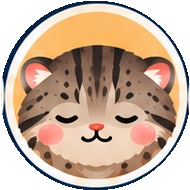
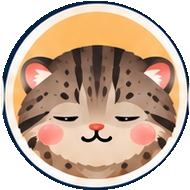
Make all sleepy cats visibly drowsy while preserving other artwork

Changed region(s): [[0.2632, 0.6053, 0.4211, 0.6579], [0.6053, 0.6053, 0.7368, 0.6579]]

diff --git a/cat-faces.js b/cat-faces.js
@@ -35,7 +35,7 @@ globalThis.CatFaces = (() => {
     return `<circle cx="50" cy="50" r="47" fill="#ffba70" stroke="#fff5e5" stroke-width="3"/><path d="M8 43Q20 2 64 8" fill="none" stroke="#ffd294" stroke-width="8" opacity=".55"/><path d="M17 41 19 17Q21 13 39 30M61 30Q79 13 81 17l2 24" fill="${fur}" stroke="${fur}" stroke-width="4" stroke-linejoin="round"/><path d="m22 32 0-12 11 10m34 0 11-10 0 12" fill="#ff9a94"/><ellipse cx="50" cy="59" rx="39" ry="32" fill="${fur}"/>${patches}${stripes}<ellipse cx="27" cy="70" rx="7" ry="4" fill="#ff9295"/><ellipse cx="73" cy="70" rx="7" ry="4" fill="#ff9295"/><g fill="${coat === 'black' || coat === 'gray' ? fur : '#fff8ee'}"><ellipse cx="30" cy="92" rx="7" ry="4"/><ellipse cx="70" cy="92" rx="7" ry="4"/></g><path d="m28 93 1 2m3-2 1 2m35-2 1 2m3-2 1 2" stroke="${stripe}" stroke-width="1" stroke-linecap="round"/>`;
   }
   const label = value => options.find(option => option.id === normalize(value)).label;
-  const domesticVersions = {"black-faces-calm.png":"b9b70d19d04572ba","black-faces-happy.png":"6544502df01c0127","black-faces-restless.png":"da362098528cf99b","black-faces-sleepy.png":"b1659bc16931bea4","black-faces-surprised.png":"fb8e8401de2f5358","black-faces-yawn.png":"c24cfaee03299aef","brown-faces-calm.png":"46f285a316a3b7f2","brown-faces-happy.png":"72aef1cf10cc3b11","brown-faces-restless.png":"83c9bafdac4084d2","brown-faces-sleepy.png":"8eebe87978ac4554","brown-faces-surprised.png":"b61871d58a4648c3","brown-faces-yawn.png":"a62e9f3bb2f8652c","calico-faces-calm.png":"9c7ff26ea678618b","calico-faces-happy.png":"b4232f5ec805cdb3","calico-faces-restless.png":"51bbd9868f054c3c","calico-faces-sleepy.png":"84f707ddc62ba72c","calico-faces-surprised.png":"edf0edd440492e29","calico-faces-yawn.png":"a15c91b67fbb3950","gray-faces-calm.png":"97dce9010a721f8e","gray-faces-happy.png":"94fdeab84212f10a","gray-faces-restless.png":"422a62ab51a188e2","gray-faces-sleepy.png":"3b3e758a98170077","gray-faces-surprised.png":"9ece4db1177bdc1f","gray-faces-yawn.png":"d295e2d248a84fcd","orange-faces-calm.png":"1ae7bd9b7e7b869c","orange-faces-happy.png":"e7e6c62a0ecaf0f0","orange-faces-restless.png":"aa5123295548ac84","orange-faces-sleepy.png":"6348a751288daab4","orange-faces-surprised.png":"d165f5e45ff38979","orange-faces-yawn.png":"5a4ea2ba3d8a8704","silver-faces-calm.png":"8c26689833c114db","silver-faces-happy.png":"c45b933e1d8c3dbc","silver-faces-restless.png":"311de63bc00478af","silver-faces-sleepy.png":"df4d160b2ccb9560","silver-faces-surprised.png":"74c5e1613cc0fe1f","silver-faces-yawn.png":"b725cccb25f319cd","tuxedo-faces-calm.png":"ff05d961bb4b8567","tuxedo-faces-happy.png":"ed2aada502e2cef9","tuxedo-faces-restless.png":"e910d874fdf7aeea","tuxedo-faces-sleepy.png":"8ebb375c90594e5c","tuxedo-faces-surprised.png":"b30c5049d2b081b9","tuxedo-faces-yawn.png":"19ef6f4e298104e6","white-faces-calm.png":"35d3a4e8ff954a76","white-faces-happy.png":"1e8a8f108b9a8192","white-faces-restless.png":"2fb062e21ede6972","white-faces-sleepy.png":"9e859f323cab9c18","white-faces-surprised.png":"818a8c9c6ef21ed2","white-faces-yawn.png":"bfc18798bb47de89"};
+  const domesticVersions = {"black-faces-calm.png":"b9b70d19d04572ba","black-faces-happy.png":"6544502df01c0127","black-faces-restless.png":"da362098528cf99b","black-faces-sleepy.png":"20ee5325431de4eb","black-faces-surprised.png":"fb8e8401de2f5358","black-faces-yawn.png":"c24cfaee03299aef","brown-faces-calm.png":"46f285a316a3b7f2","brown-faces-happy.png":"72aef1cf10cc3b11","brown-faces-restless.png":"83c9bafdac4084d2","brown-faces-sleepy.png":"c763a4897267ed10","brown-faces-surprised.png":"b61871d58a4648c3","brown-faces-yawn.png":"a62e9f3bb2f8652c","calico-faces-calm.png":"9c7ff26ea678618b","calico-faces-happy.png":"b4232f5ec805cdb3","calico-faces-restless.png":"51bbd9868f054c3c","calico-faces-sleepy.png":"dc2a3fefde90d8be","calico-faces-surprised.png":"edf0edd440492e29","calico-faces-yawn.png":"a15c91b67fbb3950","gray-faces-calm.png":"97dce9010a721f8e","gray-faces-happy.png":"94fdeab84212f10a","gray-faces-restless.png":"422a62ab51a188e2","gray-faces-sleepy.png":"ab0a67c7f3a9d6da","gray-faces-surprised.png":"9ece4db1177bdc1f","gray-faces-yawn.png":"d295e2d248a84fcd","orange-faces-calm.png":"1ae7bd9b7e7b869c","orange-faces-happy.png":"e7e6c62a0ecaf0f0","orange-faces-restless.png":"aa5123295548ac84","orange-faces-sleepy.png":"104e2acc8a39bcec","orange-faces-surprised.png":"d165f5e45ff38979","orange-faces-yawn.png":"5a4ea2ba3d8a8704","silver-faces-calm.png":"8c26689833c114db","silver-faces-happy.png":"c45b933e1d8c3dbc","silver-faces-restless.png":"311de63bc00478af","silver-faces-sleepy.png":"7ae4d6845f9cda35","silver-faces-surprised.png":"74c5e1613cc0fe1f","silver-faces-yawn.png":"b725cccb25f319cd","tuxedo-faces-calm.png":"ff05d961bb4b8567","tuxedo-faces-happy.png":"ed2aada502e2cef9","tuxedo-faces-restless.png":"e910d874fdf7aeea","tuxedo-faces-sleepy.png":"4a2e158e6ca42dda","tuxedo-faces-surprised.png":"b30c5049d2b081b9","tuxedo-faces-yawn.png":"19ef6f4e298104e6","white-faces-calm.png":"35d3a4e8ff954a76","white-faces-happy.png":"1e8a8f108b9a8192","white-faces-restless.png":"2fb062e21ede6972","white-faces-sleepy.png":"35d391fcf40a8e1d","white-faces-surprised.png":"818a8c9c6ef21ed2","white-faces-yawn.png":"bfc18798bb47de89"};
   function svg(value, coatValue) {
     const expression = normalize(value);
     const coat = normalizeCoat(coatValue);

diff --git a/wild-cat-assets.js b/wild-cat-assets.js
@@ -7,7 +7,7 @@ globalThis.WildCatAssets = (() => {
   {id:'fishing',label:'スナドリネコ',group:'wild'}
  ].map(Object.freeze));
  const isWild = id => species.some(cat=>cat.id===id);
- const versions = {"black-footed-day-doze.png":"ca0ffc04bbab14be","black-footed-day-gaze.png":"50f27f0793673815","black-footed-day-groom.png":"6667c651b598dca2","black-footed-day-play.png":"0d2062767e349272","black-footed-day-relax.png":"c33ecd07a076bb08","black-footed-faces-calm.png":"3c8dd99a6930208a","black-footed-faces-happy.png":"19f34a47df54a74a","black-footed-faces-restless.png":"c7f7dd79f1b867ec","black-footed-faces-sleepy.png":"13738c5d2eff73dc","black-footed-faces-surprised.png":"6f1bd88f68c8709f","black-footed-faces-yawn.png":"147a3989b6994e4f","fishing-day-doze.png":"6eb182813190db09","fishing-day-gaze.png":"11ef8b217a999500","fishing-day-groom.png":"a2666192044a2b68","fishing-day-play.png":"58c633a49d437e13","fishing-day-relax.png":"4802ef9be70d8f9e","fishing-faces-calm.png":"d153e1967d1594c3","fishing-faces-happy.png":"ef87699cfb78259e","fishing-faces-restless.png":"2764d32d7cf4f60d","fishing-faces-sleepy.png":"e979f005258cd984","fishing-faces-surprised.png":"4bdf92a8be731e2a","fishing-faces-yawn.png":"ba28e10732ee2b7b","manul-day-doze.png":"f3af82a3dc518624","manul-day-gaze.png":"8bbb6c24ec6b6460","manul-day-groom.png":"a0f293866627fdd5","manul-day-play.png":"fc3332dec573eb0c","manul-day-relax.png":"8518288db7241f71","manul-faces-calm.png":"62c0e270fd9cbeec","manul-faces-happy.png":"2fae485949ab9f70","manul-faces-restless.png":"be4cbd2b2f39f95f","manul-faces-sleepy.png":"675c560b3af8e8d2","manul-faces-surprised.png":"099f708855acd12f","manul-faces-yawn.png":"0e8a1a83551bb988","sand-day-doze.png":"d65ed63c91de301e","sand-day-gaze.png":"231392821d8c97a9","sand-day-groom.png":"1d18c24f54730216","sand-day-play.png":"1a1b8993f1efcc23","sand-day-relax.png":"58961de7171d2f98","sand-faces-calm.png":"cb810eeeed1ef35c","sand-faces-happy.png":"3d322b8fa3a86884","sand-faces-restless.png":"679cb9b5a352693a","sand-faces-sleepy.png":"5017721520608bc3","sand-faces-surprised.png":"fb2801452d142791","sand-faces-yawn.png":"67e4dcb693cdce5c"};
+ const versions = {"black-footed-day-doze.png":"ca0ffc04bbab14be","black-footed-day-gaze.png":"50f27f0793673815","black-footed-day-groom.png":"6667c651b598dca2","black-footed-day-play.png":"0d2062767e349272","black-footed-day-relax.png":"c33ecd07a076bb08","black-footed-faces-calm.png":"3c8dd99a6930208a","black-footed-faces-happy.png":"19f34a47df54a74a","black-footed-faces-restless.png":"c7f7dd79f1b867ec","black-footed-faces-sleepy.png":"ad76a0b6253a5ed7","black-footed-faces-surprised.png":"6f1bd88f68c8709f","black-footed-faces-yawn.png":"147a3989b6994e4f","fishing-day-doze.png":"6eb182813190db09","fishing-day-gaze.png":"11ef8b217a999500","fishing-day-groom.png":"a2666192044a2b68","fishing-day-play.png":"58c633a49d437e13","fishing-day-relax.png":"4802ef9be70d8f9e","fishing-faces-calm.png":"d153e1967d1594c3","fishing-faces-happy.png":"ef87699cfb78259e","fishing-faces-restless.png":"2764d32d7cf4f60d","fishing-faces-sleepy.png":"ec0177f8586b2539","fishing-faces-surprised.png":"4bdf92a8be731e2a","fishing-faces-yawn.png":"ba28e10732ee2b7b","manul-day-doze.png":"f3af82a3dc518624","manul-day-gaze.png":"8bbb6c24ec6b6460","manul-day-groom.png":"a0f293866627fdd5","manul-day-play.png":"fc3332dec573eb0c","manul-day-relax.png":"8518288db7241f71","manul-faces-calm.png":"62c0e270fd9cbeec","manul-faces-happy.png":"2fae485949ab9f70","manul-faces-restless.png":"be4cbd2b2f39f95f","manul-faces-sleepy.png":"87e16c975b33ccf9","manul-faces-surprised.png":"099f708855acd12f","manul-faces-yawn.png":"0e8a1a83551bb988","sand-day-doze.png":"d65ed63c91de301e","sand-day-gaze.png":"231392821d8c97a9","sand-day-groom.png":"1d18c24f54730216","sand-day-play.png":"1a1b8993f1efcc23","sand-day-relax.png":"58961de7171d2f98","sand-faces-calm.png":"cb810eeeed1ef35c","sand-faces-happy.png":"3d322b8fa3a86884","sand-faces-restless.png":"679cb9b5a352693a","sand-faces-sleepy.png":"585600432bfaf0f3","sand-faces-surprised.png":"fb2801452d142791","sand-faces-yawn.png":"67e4dcb693cdce5c"};
  const image = (kind,id,frame) => `<image href="assets/wild-cats/${id}-${kind}-${frame}.png?v=${versions[`${id}-${kind}-${frame}.png`]}" x="0" y="0" width="100" height="100" preserveAspectRatio="xMidYMid meet"/>`;
  return Object.freeze({species,isWild,image});
 })();

diff --git a/test-domestic-faces-browser.js b/test-domestic-faces-browser.js
@@ -17,10 +17,10 @@ let socket;
  for(const file of ['wild-cat-assets.js','cat-faces.js'])await evaluate(fs.readFileSync(file,'utf8'));
  for(const width of [320,375,390,430]){
   await send('Emulation.setDeviceMetricsOverride',{width,height:844,deviceScaleFactor:1,mobile:true});
-  await evaluate(`document.body.style.cssText='display:block;min-height:0;margin:0;padding:8px;box-sizing:border-box;width:100%';document.body.innerHTML=CatFaces.coats.filter(c=>!WildCatAssets.isWild(c.id)).map(c=>'<section style="display:block;width:100%;margin-bottom:6px"><p style="margin:0;font-size:12px">'+c.label+'</p><div style="display:grid;grid-template-columns:repeat(6,minmax(0,1fr));gap:2px">'+CatFaces.options.map(e=>'<div style="min-width:0">'+CatFaces.svg(e.id,c.id)+'</div>').join('')+'</div></section>').join('');document.querySelectorAll('.cat-face').forEach(el=>el.style.cssText='width:100%;height:auto;display:block')`);
+  await evaluate(`document.body.style.cssText='display:block;min-height:0;margin:0;padding:8px;box-sizing:border-box;width:100%';document.body.innerHTML=CatFaces.coats.map(c=>'<section style="display:block;width:100%;margin-bottom:6px"><p style="margin:0;font-size:12px">'+c.label+'</p><div style="display:grid;grid-template-columns:repeat(6,minmax(0,1fr));gap:2px">'+CatFaces.options.map(e=>'<div style="min-width:0">'+CatFaces.svg(e.id,c.id)+'</div>').join('')+'</div></section>').join('');document.querySelectorAll('.cat-face').forEach(el=>el.style.cssText='width:100%;height:auto;display:block')`);
   const result=await evaluate(`(async()=>{const images=[...document.querySelectorAll('svg image')];await Promise.all(images.map(el=>new Promise((resolve,reject)=>{const img=new Image();img.onload=resolve;img.onerror=()=>reject(new Error(el.getAttribute('href')));img.src=el.getAttribute('href')})));return {count:images.length,overflow:document.documentElement.scrollWidth>innerWidth,square:[...document.querySelectorAll('svg')].every(el=>{const r=el.getBoundingClientRect();return Math.abs(r.width-r.height)<1})}})()`);
-  assert.deepEqual(result,{count:48,overflow:false,square:true});assert(await evaluate(`[...document.querySelectorAll('svg')].every(el=>el.getBoundingClientRect().width>40)`),'Visible image size');await delay(100);
+  assert.deepEqual(result,{count:72,overflow:false,square:true});assert(await evaluate(`[...document.querySelectorAll('svg')].every(el=>el.getBoundingClientRect().width>40)`),'Visible image size');await delay(100);
   const shot=await send('Page.captureScreenshot',{format:'png'});fs.mkdirSync('test-results',{recursive:true});fs.writeFileSync(`test-results/domestic-faces-${width}.png`,Buffer.from(shot.data,'base64'));
  }
- assert.deepEqual(errors,[]);console.log('PASS domestic faces browser: all 48 images load; square frames; no overflow at 320/375/390/430px; no runtime errors.');
+ assert.deepEqual(errors,[]);console.log('PASS all cat faces browser: all 72 images load; square frames; no overflow at 320/375/390/430px; no runtime errors.');
 })().catch(e=>{console.error(e);process.exitCode=1;}).finally(()=>{socket?.close();browser.kill();server.kill();});

diff --git a/test-wild-cats.js b/test-wild-cats.js
@@ -18,7 +18,7 @@ for(const coat of originals.CatFaces.coats){
   assert.equal(crypto.createHash('sha256').update(png).digest('hex').slice(0,16),match[2]);
  }
 }
-for(const file of fs.readdirSync('assets/wild-cats').filter(f=>f.endsWith('.png')))
+for(const file of fs.readdirSync('assets/wild-cats').filter(f=>f.endsWith('.png')&&!f.endsWith('-faces-sleepy.png')))
  assert.deepEqual(fs.readFileSync('assets/wild-cats/'+file),cp.execFileSync('git',['show','HEAD:assets/wild-cats/'+file],{maxBuffer:16*1024*1024}),'Wild artwork unchanged');
 for(const cat of WildCatAssets.species){
  assert.equal(CatFaces.normalizeCoat(cat.id),cat.id);
@@ -29,6 +29,7 @@ for(const cat of WildCatAssets.species){
 function check(svg){
  const match=svg.match(/href="(assets\/wild-cats\/[^?]+)\?v=([a-f0-9]{16})"/);assert(match,'Versioned cropped image');paths.add(match[1]);
  const png=fs.readFileSync(match[1]);assert.equal(png.subarray(1,4).toString(),'PNG');assert(png.readUInt32BE(16)>=180);assert(png.readUInt32BE(20)>=180);
+ assert.equal(crypto.createHash('sha256').update(png).digest('hex').slice(0,16),match[2],'Wild image cache version matches artwork');
 }
 assert.equal(paths.size,44);
 console.log('PASS wild cats: 24 expressions, 20 day actions, versioned individual PNGs, safe normalization, sleep/wake reuse and all 48 domestic faces available.');

diff --git a/index.html b/index.html
@@ -2,7 +2,7 @@
 <html lang="ja">
 <head>
   <meta charset="utf-8">
-  <meta name="oyasumi-release" content="c54ecb9d1e32aa48">
+  <meta name="oyasumi-release" content="681f7778576e0f09">
   <meta name="viewport" content="width=device-width,initial-scale=1,viewport-fit=cover">
   <meta name="theme-color" content="#071329">
   <meta name="description" content="眠れない夜に、ひとりじゃない。静かなおやすみコミュニティ。">
@@ -11,8 +11,8 @@
   <link rel="stylesheet" href="style.css?v=688649b9c55df65b">
   <script src="cat-coat-cooldown.js?v=fa1b3f13bdcc8990" defer></script>
   <script src="nickname.js?v=a944082ff045149b" defer></script>
-  <script src="wild-cat-assets.js?v=2e0d8437f72e8527" defer></script>
-  <script src="cat-faces.js?v=ae06e23487d0c2de" defer></script>
+  <script src="wild-cat-assets.js?v=257f77aec848fbee" defer></script>
+  <script src="cat-faces.js?v=255d39f2ee022503" defer></script>
   <script src="cat-roles.js?v=a25e757f9e91e42e" defer></script>
   <script src="cat-scenes.js?v=c7bd0316551e9b98" defer></script>
   <script src="tonight-trend.js?v=9198c4d69f6b6556" defer></script>
